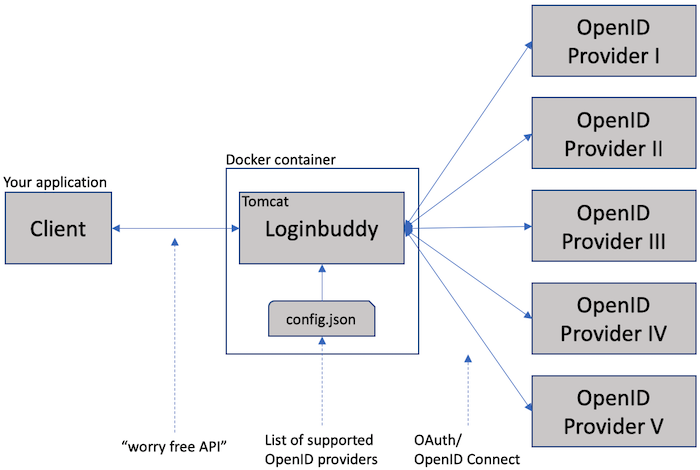
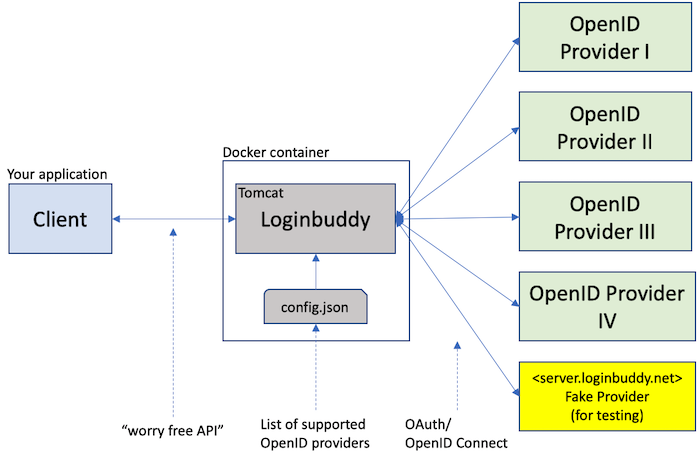
fakeProviderEnhancement, simulating an authentication-authorization flow better

diff --git a/web/index.html b/web/index.html
@@ -38,7 +38,7 @@
 
     <h1>Welcome to Loginbuddy!</h1>
     <p>This is a demo client of the opensource project <a href="https://github.com/SaschaZeGerman/loginbuddy" target="_blank"><strong>Loginbuddy</strong></a>.
-        It is meant for demo purposes only! This client is not collecting data, using cookies, remembering user interactions or tries to sell ads!</p>
+        It is meant for demo purposes only! This client is not collecting data or remembers user interactions or tries to sell ads!</p>
     <hr/>
     <p>The link below takes one to a simple website displaying a few details about the features of loginbuddy. If you are brave enough, just click it ... </p>
     <p><a href="exampleApp.jsp">Demo Client</a></p>

diff --git a/src/main/java/net/loginbuddy/provider/LoginbuddyUserinfo.java b/src/main/java/net/loginbuddy/provider/LoginbuddyUserinfo.java
@@ -81,9 +81,7 @@ public class LoginbuddyUserinfo extends HttpServlet {
             }
         }
 
-
         if (!error) {
-
 
             // Let's build the response message depending on scope values other than 'openid'
 

diff --git a/README.md b/README.md
@@ -34,7 +34,16 @@ With that, it follows best practices for OAuth and OpenID Connect.
  
 # Getting started
 
+To build loginbuddy you need these tools:
+
+- java jdk8
+- maven
+- docker
+- docker-compose
+
 ## Building and using the development container of loginbuddy:
+
+I have only used loginbuddy on a MacBook, if you run it on Windows, some instructions may need to be adjusted!
 
 - Preparation
   - modify your hosts file, add **127.0.0.1 local.loginbuddy.net server.loginbuddy.net**
@@ -52,8 +61,10 @@ With that, it follows best practices for OAuth and OpenID Connect.
 - Open a browser
   - go to **http://local.loginbuddy.net** and follow the prompts
   - the following screen will display an image saying 'fake' which is the demo provider. Just click it ...
+  - the demo takes your through the (simulated) typical authentication/ authorization flow
+  - the response at the end is completely fake but it represents the type of content that can be expected 
 
-That's it! The response that is shown is completely fake but it represents the type of content that can be expected.
+That's it! In a real life scenario the 'fake' image would be replaced by images of real providers!
 
 ## Configuring 'real' OpenID Providers
 
